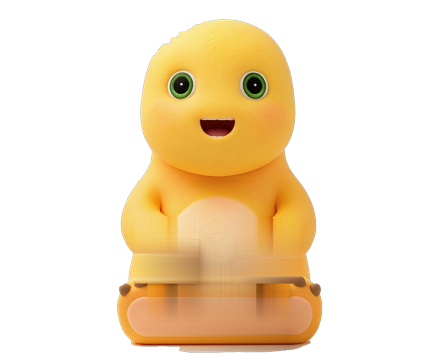
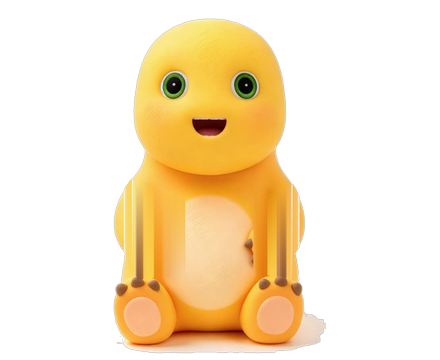
阿瓜素材 v2：爪子重做（程序化臂+三指爪，ref 原图去臂路线）
- 弃用'从敲鼓生成图抠爪'（残片根因），改 ref 原图去臂 + 程序化重绘爪臂
- 爪常驻鼓面（与矢量物种同视觉语法），敲击 8px 下压 + 身体挤压
- anchors.json 爪轴同步肘点；脚本 agua_assets_v2.py（垂直插值修补+阴影感知 bbox）

Changed region(s): [[0.2364, 0.0306, 0.7386, 1.0]]

diff --git a/scripts/agua_assets_v2.py b/scripts/agua_assets_v2.py
@@ -1,0 +1,217 @@
+"""阿瓜素材管线 v2：从 ref 原图（无鼓）生成干净素材。
+
+路线修正（v1 从敲鼓生成图抠爪失败）：
+- body  ：ref 原图去背景后，移除双臂（肩以下侧区），躯干侧面逐行插值修补
+- paw   ：程序化重绘"搭在鼓面的前臂+三指爪"（配色采样自原图），绘制在鼓面绝对位置
+- 姿势语法与矢量物种一致：爪常驻鼓面，敲击时 8px 下压（CatTapAnimator 零改动）
+
+每风格参数 = 角色bbox归一化坐标（clay 手调，其余风格按 bbox 映射后微调）。
+"""
+from __future__ import annotations
+
+import json
+import math
+from pathlib import Path
+
+import numpy as np
+from PIL import Image, ImageDraw, ImageFilter
+
+ROOT = Path(r"D:\BongoCat")
+REF_DIR = ROOT / "analysis/style-previews/ai-agua/ref"
+OUT_DIR = ROOT / "src/BongoCat.App/assets/species/agua"
+
+STYLES = ["clay", "sticker", "flat", "sketch", "chibi", "papercut"]
+
+REF_FILES = {
+    "clay": "agua-clay-ref.jpg",
+    "sticker": "agua-sticker-ref.png",
+    "flat": "agua-flat-ref.png",
+    "sketch": "agua-sketch-ref.jpg",
+    "chibi": "agua-chibi-ref.jpg",
+    "papercut": "agua-papercut-ref.jpg",
+}
+
+# 每风格参数：臂区（bbox 归一化多边形）+ 色彩修正。
+# 归一化坐标：x,y ∈ [0,1] 相对角色 bbox（x*W+bbox.x0）。clay 手调基准。
+PARAMS: dict[str, dict] = {
+    "clay": {
+        "armL_poly": [(0.00, 0.46), (0.34, 0.54), (0.34, 0.76), (0.12, 0.78), (0.00, 0.66)],
+        "armR_poly": [(1.00, 0.46), (0.66, 0.54), (0.66, 0.76), (0.88, 0.78), (1.00, 0.66)],
+        "claw_color": None,  # 自动采样
+    },
+}
+# 其余风格先用 clay 参数按 bbox 映射（同角色构图相近），生成后目检再调。
+for s in STYLES[1:]:
+    PARAMS[s] = dict(PARAMS["clay"])
+
+# 程序化爪的几何（220×180 逻辑坐标 → 绘制时 ×2）
+PAW_AXIS_L = (76.0, 104.0)    # 左肘（身体轮廓内侧）
+PAW_AXIS_R = (144.0, 104.0)
+CLAW_L = (53.0, 128.0)        # 左鼓面落点（鼓 x12-82，鼓面 y≈120-128）
+CLAW_R = (167.0, 128.0)
+ARM_W = 12.0                  # 臂宽（逻辑 px）
+CLAW_R_LEN = 10.0             # 爪端三指团半径
+
+
+def remove_bg(img: Image.Image) -> tuple[Image.Image, tuple[int, int, int, int]]:
+    """近白背景 → 透明；返回 (RGBA 图, 角色 bbox)。"""
+    arr = np.asarray(img.convert("RGB")).astype(np.int16)
+    h, w, _ = arr.shape
+    lum = arr.mean(axis=2)
+    # 背景判定：高亮度 + 低饱和（RGB 三通道接近）
+    sat = arr.max(axis=2) - arr.min(axis=2)
+    bg = (lum > 205) & (sat < 26)
+    alpha = np.where(bg, 0, 255).astype(np.uint8)
+    # 收边：边缘 2px 渐变
+    a_img = Image.fromarray(alpha, "L").filter(ImageFilter.GaussianBlur(1.2))
+    out = img.convert("RGBA")
+    out.putalpha(a_img)
+    # bbox 排除灰色地面阴影（低饱和+中低亮度），避免 bbox 膨胀
+    a_arr = np.asarray(a_img)
+    solid = (a_arr > 128) & ~((sat < 30) & (lum <= 205))
+    ys, xs = np.where(solid)
+    x0, x1, y0, y1 = xs.min(), xs.max(), ys.min(), ys.max()
+    return out, (int(x0), int(y0), int(x1), int(y1))
+
+
+def inpaint_horizontal(arr: np.ndarray, alpha: np.ndarray, poly) -> None:
+    """把多边形区域内的角色像素按「列方向垂直插值」回填（上缘肩色 → 下缘腿色，同色系）。"""
+    h, w, _ = arr.shape
+    ys, xs = np.where(alpha > 10)
+    x0, x1, y0, y1 = xs.min(), xs.max(), ys.min(), ys.max()
+    pw, ph = x1 - x0, y1 - y0
+    pts = [(int(px * pw + x0), int(py * ph + y0)) for px, py in poly]
+    poly_img = Image.new("L", (w, h), 0)
+    ImageDraw.Draw(poly_img).polygon(pts, fill=255)
+    mask = (np.asarray(poly_img) > 0) & (alpha > 10)
+    rng = np.random.default_rng(7)
+    for x in range(w):
+        col = mask[:, x]
+        if not col.any():
+            continue
+        ys_m = np.where(col)[0]
+        yt, yb = ys_m.min(), ys_m.max()
+        top_y = yt - 4
+        bot_y = min(yb + 4, h - 1)
+        top = arr[top_y, x, :3].astype(np.float32) if top_y >= 0 and alpha[top_y, x] > 10 else None
+        bot = arr[bot_y, x, :3].astype(np.float32) if alpha[bot_y, x] > 10 else None
+        if top is None and bot is None:
+            continue
+        n = yb - yt + 1
+        for i, y in enumerate(range(yt, yb + 1)):
+            t = i / max(n - 1, 1)
+            if top is not None and bot is not None:
+                base = top * (1 - t) + bot * t
+            else:
+                base = top if top is not None else bot
+            noise = rng.normal(0, 2.0, 3)
+            arr[y, x, :3] = np.clip(base + noise, 0, 255)
+        alpha[yt:yb + 1, x] = np.where(alpha[yt:yb + 1, x] > 10, 255, alpha[yt:yb + 1, x])
+
+
+def sample_color_bbox(rgba: Image.Image, bbox, fx: float, fy: float) -> tuple[int, int, int]:
+    """角色 bbox 归一化位置取色（3×3 均值）。"""
+    x0, y0, x1, y1 = bbox
+    px, py = int(fx * (x1 - x0) + x0), int(fy * (y1 - y0) + y0)
+    arr = np.asarray(rgba.convert("RGB"))
+    patch = arr[max(0, py - 1):py + 2, max(0, px - 1):px + 2]
+    m = patch.reshape(-1, 3).mean(axis=0)
+    return tuple(int(v) for v in m)
+
+
+def sample_color(arr: np.ndarray, alpha: np.ndarray, fx: float, fy: float) -> tuple[int, int, int]:
+    """全图归一化位置取色（3×3 均值）。"""
+    h, w, _ = arr.shape
+    px, py = int(fx * w), int(fy * h)
+    patch = arr[max(0, py - 1):py + 2, max(0, px - 1):px + 2]
+    m = patch.reshape(-1, 3).mean(axis=0)
+    return tuple(int(v) for v in m)
+
+
+def draw_paw(canvas: Image.Image, axis_xy: tuple[float, float], claw_xy: tuple[float, float],
+             arm_color, claw_color, scale: float = 2.0):
+    """在 440×360 画布上画「前臂+三指爪」，轴点=肘，落点=鼓面。"""
+    d = ImageDraw.Draw(canvas)
+    ax, ay = axis_xy[0] * scale, axis_xy[1] * scale
+    cx, cy = claw_xy[0] * scale, claw_xy[1] * scale
+    lw = int(ARM_W * scale)
+    # 前臂：粗圆头线段
+    d.line([(ax, ay), (cx, cy)], fill=arm_color, width=lw)
+    r = lw / 2
+    d.ellipse([ax - r, ay - r, ax + r, ay + r], fill=arm_color)
+    # 三指爪：掌团 + 三枚棕色爪尖
+    pr = CLAW_R_LEN * scale
+    d.ellipse([cx - pr, cy - pr * 0.85, cx + pr, cy + pr * 0.85], fill=claw_color)
+    finger_r = pr * 0.42
+    for ang in (-38, 0, 38):
+        a = math.radians(ang)
+        fx = cx + math.sin(a) * pr * 0.82
+        fy = cy + math.cos(a) * pr * 0.82
+        d.ellipse([fx - finger_r, fy - finger_r, fx + finger_r, fy + finger_r], fill=claw_color)
+    # 掌团高光（上缘一条浅色弧）
+    hl = tuple(min(255, int(c * 1.18)) for c in arm_color)
+    d.arc([ax - r * 0.7, ay - r * 0.7, ax + r * 0.7, ay + r * 0.7], 200, 320, fill=hl, width=max(2, int(scale)))
+
+
+def process_style(style: str) -> dict:
+    ref = Image.open(REF_DIR / REF_FILES[style]).convert("RGB")
+    rgba, bbox = remove_bg(ref)
+    arr = np.asarray(rgba).copy()
+    alpha = arr[:, :, 3]
+    p = PARAMS[style]
+
+    # 采色：臂=头顶下方躯干黄（bbox 相对，头部不受阴影影响）；爪=固定棕
+    arm_color = sample_color_bbox(rgba, bbox, 0.50, 0.16)
+    claw_color = p.get("claw_color") or (133, 78, 37)
+
+    # 移除双臂
+    inpaint_horizontal(arr, alpha, p["armL_poly"])
+    inpaint_horizontal(arr, alpha, p["armR_poly"])
+
+    body = Image.fromarray(arr.astype(np.uint8))
+    # 修补区轻模糊弱化色带
+    body = body.filter(ImageFilter.GaussianBlur(0.6))
+
+    # 统一画布：440×360，角色高 336，脚底 y=354
+    ys, xs = np.where(np.asarray(body)[:, :, 3] > 10)
+    bx0, bx1, by0, by1 = xs.min(), xs.max(), ys.min(), ys.max()
+    ch = by1 - by0
+    target_h = 336
+    s = target_h / ch
+    cw = int((bx1 - bx0) * s)
+    cropped = body.crop((bx0, by0, bx1 + 1, by1 + 1))
+    scaled = cropped.resize((cw, target_h), Image.LANCZOS)
+    canvas = Image.new("RGBA", (440, 360), (0, 0, 0, 0))
+    ox = (440 - cw) // 2
+    canvas.paste(scaled, (ox, 354 - target_h), scaled)
+
+    # 爪（逻辑坐标 ×2）
+    paw_l = Image.new("RGBA", (440, 360), (0, 0, 0, 0))
+    draw_paw(paw_l, PAW_AXIS_L, CLAW_L, arm_color, claw_color)
+    paw_r = Image.new("RGBA", (440, 360), (0, 0, 0, 0))
+    draw_paw(paw_r, PAW_AXIS_R, CLAW_R, arm_color, claw_color)
+
+    out = OUT_DIR / style
+    out.mkdir(parents=True, exist_ok=True)
+    canvas.save(out / "body.png")
+    paw_l.save(out / "pawL.png")
+    paw_r.save(out / "pawR.png")
+
+    return {
+        "style": style,
+        "arm_color": "#%02x%02x%02x" % arm_color,
+        "claw_color": "#%02x%02x%02x" % claw_color,
+        "char_w2x": cw,
+        "offset_x2x": ox,
+    }
+
+
+def main():
+    report = [process_style(s) for s in STYLES]
+    (OUT_DIR / "v2-report.json").write_text(json.dumps(report, ensure_ascii=False, indent=2), encoding="utf-8")
+    for r in report:
+        print(r)
+
+
+if __name__ == "__main__":
+    main()

diff --git a/scripts/capture_agua_frames.py b/scripts/capture_agua_frames.py
@@ -1,0 +1,36 @@
+"""阿瓜敲击动画连拍诊断工具：向桌宠窗口发送按键并连拍帧序列。"""
+import ctypes
+import time
+from pathlib import Path
+
+import ctypes.wintypes as wt
+
+from PIL import ImageGrab
+
+user32 = ctypes.windll.user32
+user32.SetProcessDPIAware()
+
+OUT = Path(r"D:\BongoCat\analysis\agua-frames")
+OUT.mkdir(parents=True, exist_ok=True)
+for old in OUT.glob("frame-*.png"):
+    old.unlink()
+
+X, Y, W, H = 2365, 1363, 195, 165  # 主窗物理坐标（日志位置验证）
+VK_A = 0x41
+
+def tap():
+    user32.keybd_event(VK_A, 0, 0, 0)
+    time.sleep(0.03)
+    user32.keybd_event(VK_A, 0, 2, 0)  # KEYEVENTF_KEYUP
+
+def grab(idx):
+    img = ImageGrab.grab(bbox=(X, Y, X + W, Y + H))
+    img.save(OUT / f"frame-{idx:02d}.png")
+
+time.sleep(1.0)
+for i in range(16):
+    tap()
+    time.sleep(0.02 + (i % 4) * 0.045)
+    grab(i)
+    time.sleep(0.05)
+print(f"已捕获 {len(list(OUT.glob('frame-*.png')))} 帧到 {OUT}")
